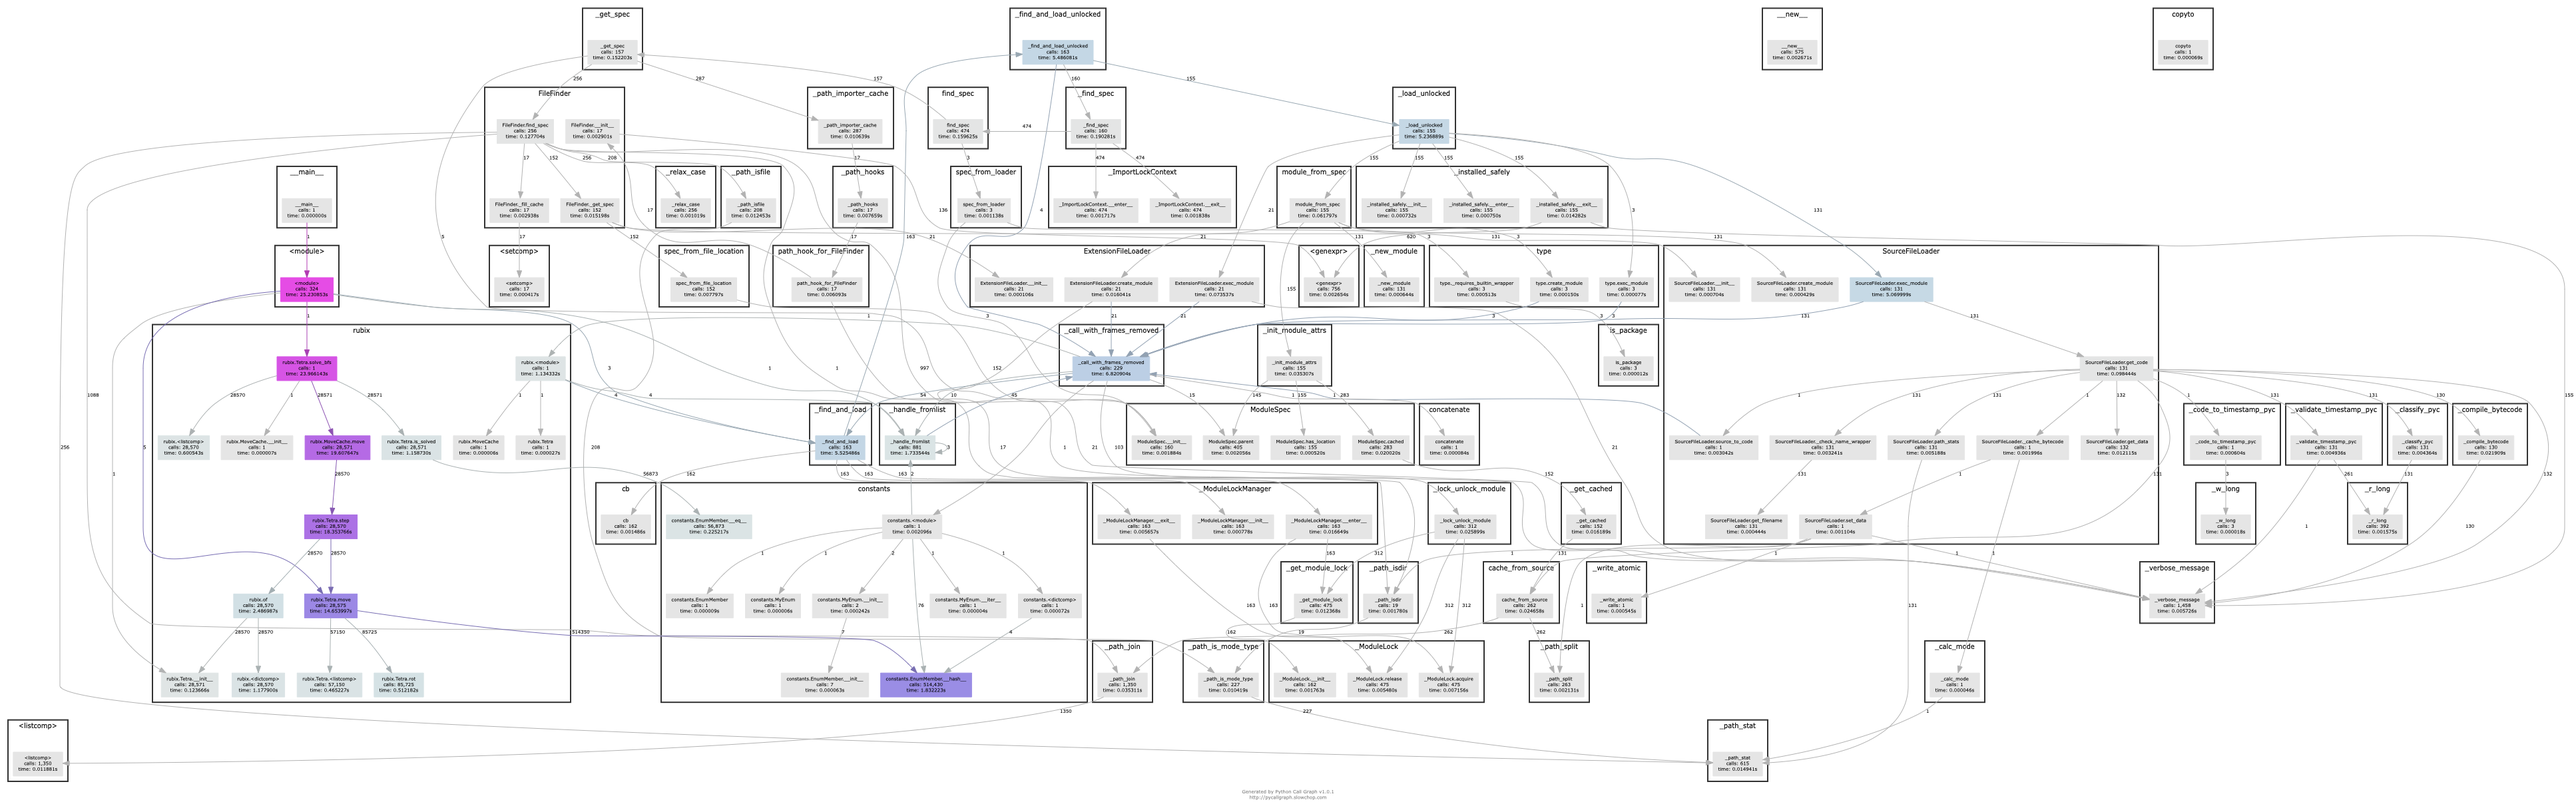
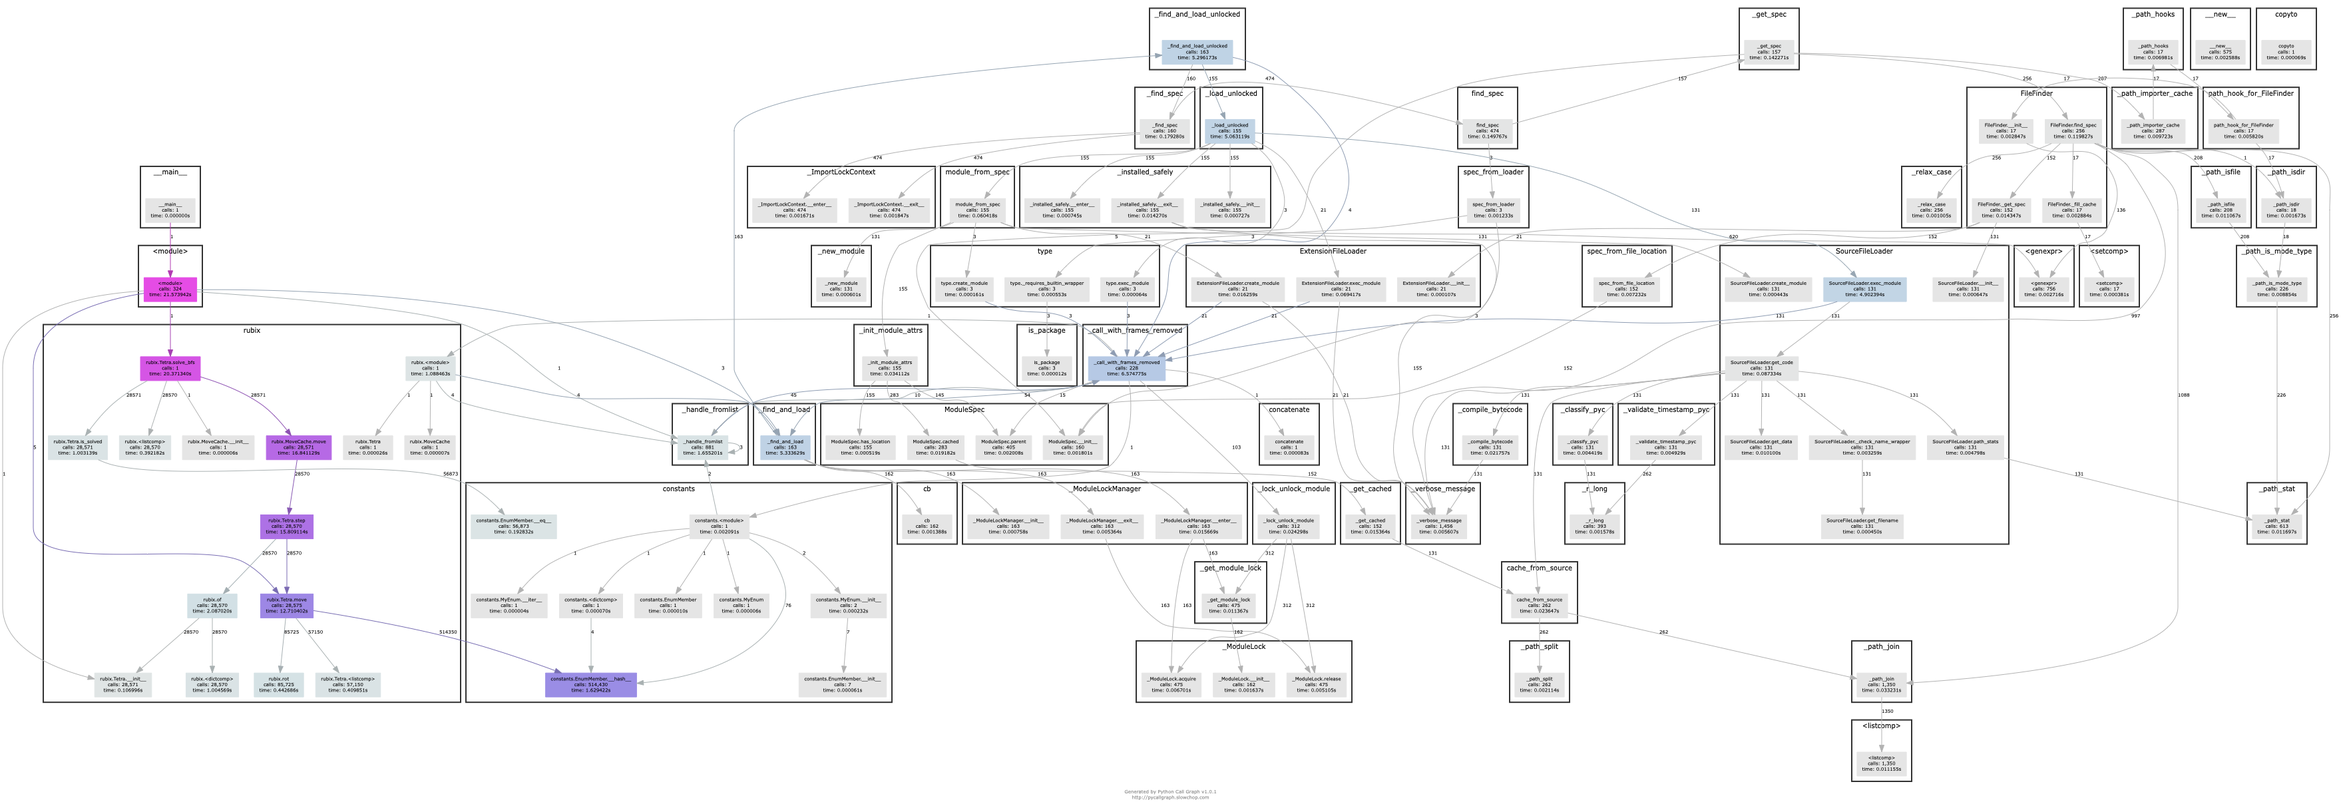
faster

diff --git a/rubix.py b/rubix.py
@@ -9,27 +9,28 @@ import time
 
 color_conv = {'R': Color.RED, 'G': Color.GREEN, 'Y': Color.YELLOW, 'B': Color.BLUE}
 
+def rot(arr, direction):
+    if direction.value == -1:
+        return arr[1:] + [arr[0]]
+    return [arr[-1]] + arr[:-1]
 
 class Tetra():
     def __init__(self, start=True):
         if start: self.pieces = deepcopy(pieces)
 
-    def rot(self, arr, direction):
-        if direction.value == -1:
-            return arr[1:] + [arr[0]]
-        return [arr[-1]] + arr[:-1]
+    
 
     def move(self, move: Color, level: int, direction: Dir, out=False):
         if out: print("moving", move, level, direction)
+        
         aff0, affected = move_arr[move.value - 1]
+
         s = self.pieces[aff0[0]]
-        self.pieces[aff0[0]] = self.rot(s, direction)
-        # self.move(move, 0, direction)
+        self.pieces[aff0[0]] = rot(s, direction)
         if level == 0: return
 
         for arr in affected:
-            new = self.rot([self.pieces[i] for i in arr], direction)
-            for k, (i, j) in enumerate(zip(arr, new)):
+            for k, (i, j) in enumerate(zip(arr, rot([self.pieces[i] for i in arr], direction))):
                 if revmap[move][corners[move.value - 1][k]][direction]:
                     j = j[::-1]
                 self.pieces[i] = j
